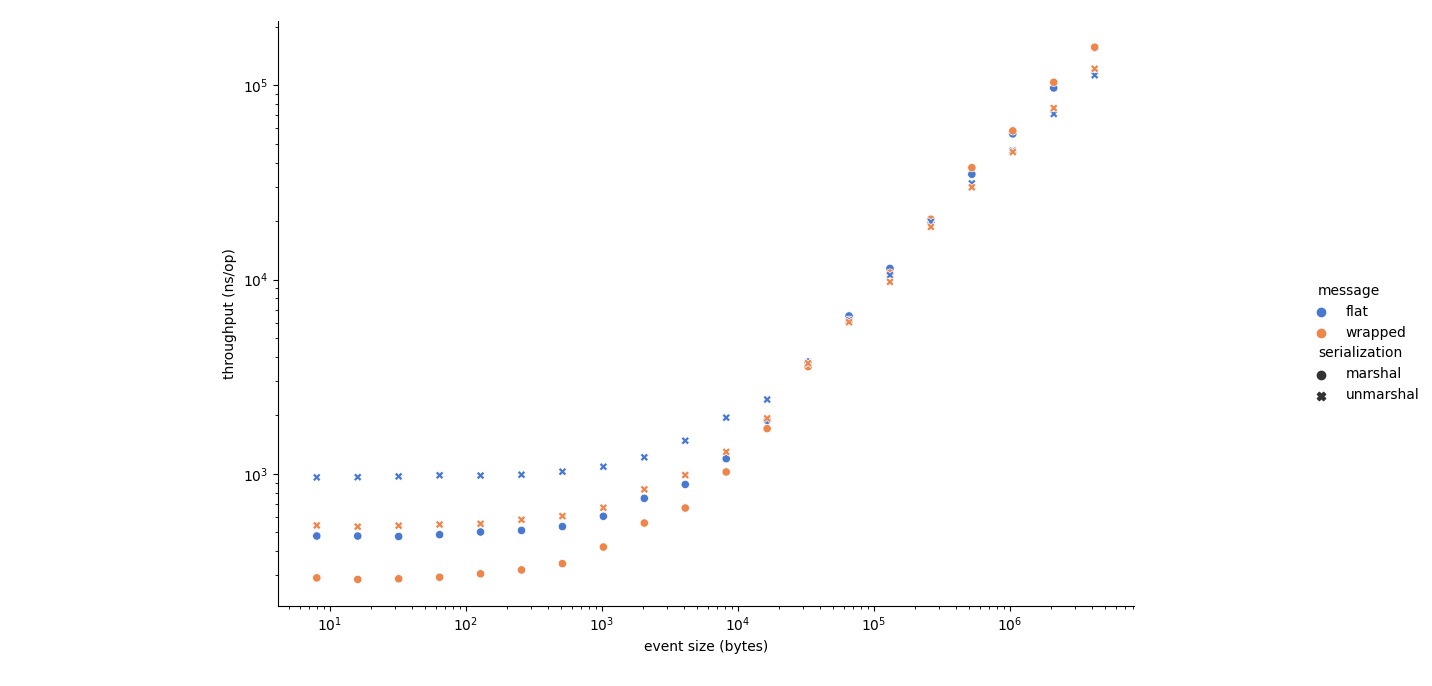
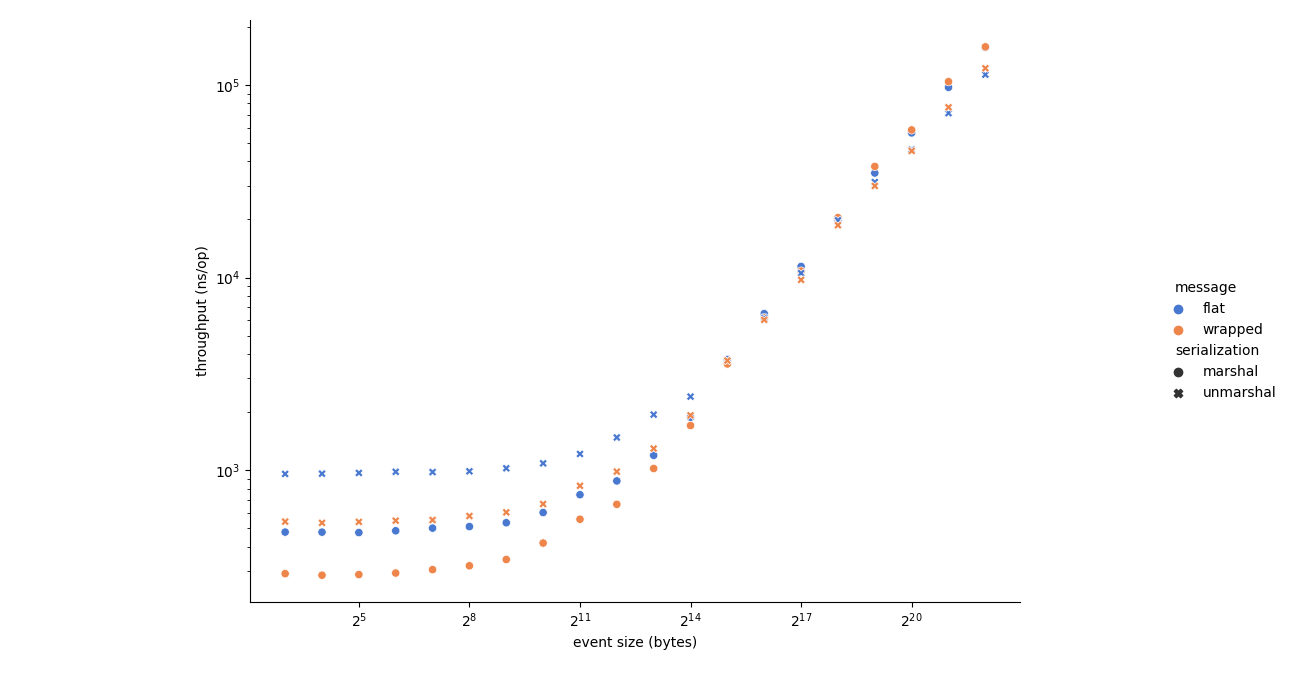
better scale

diff --git a/viz.py b/viz.py
@@ -43,7 +43,7 @@ def reshape(data):
 def viz(data):
     data = reshape(data)
     g = sns.relplot(data=data, x='event size (bytes)', y='throughput (ns/op)', hue='message', style='serialization', palette='muted')
-    g.set(xscale='log')
+    plt.gca().set_xscale('log', base=2)
     g.set(yscale='log')
     plt.show()
 
